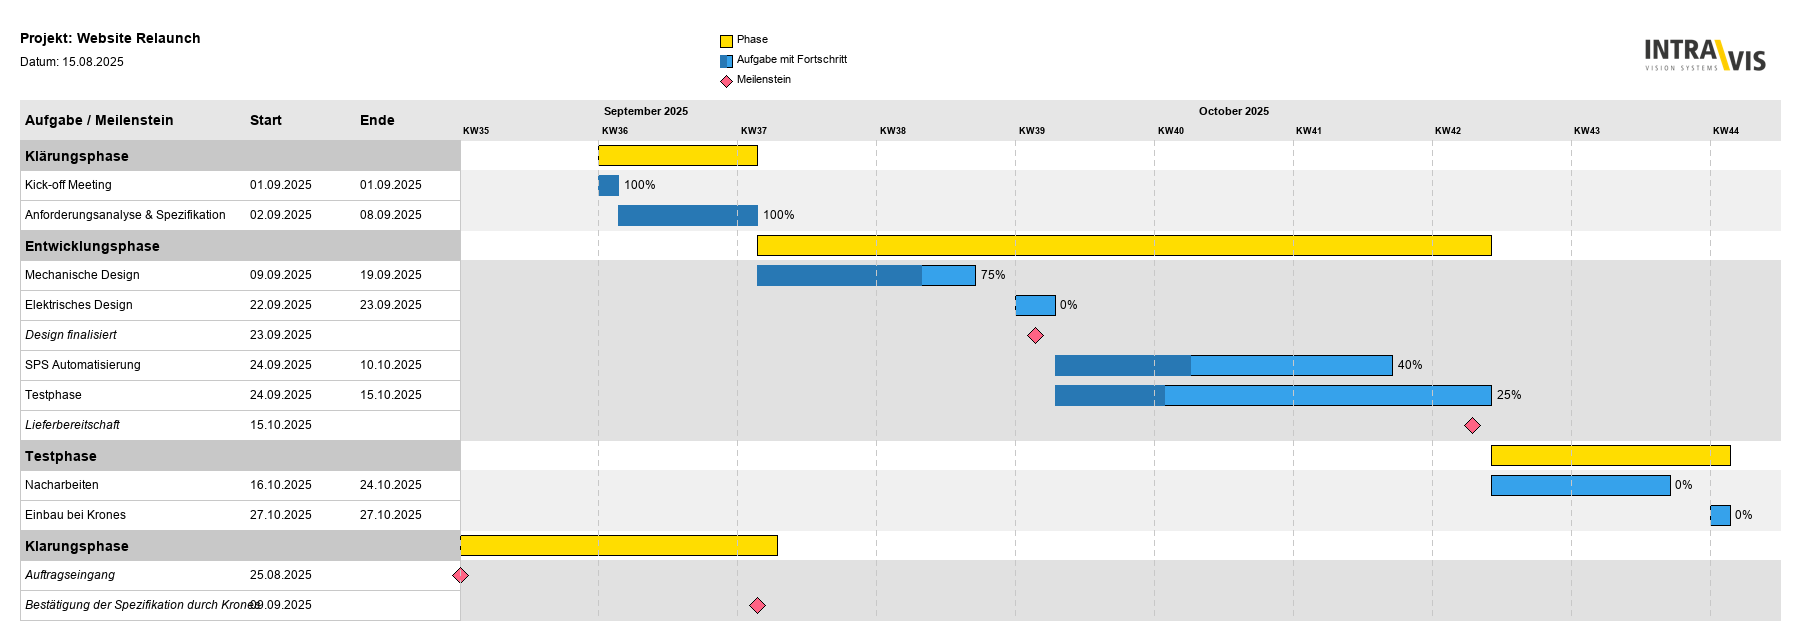
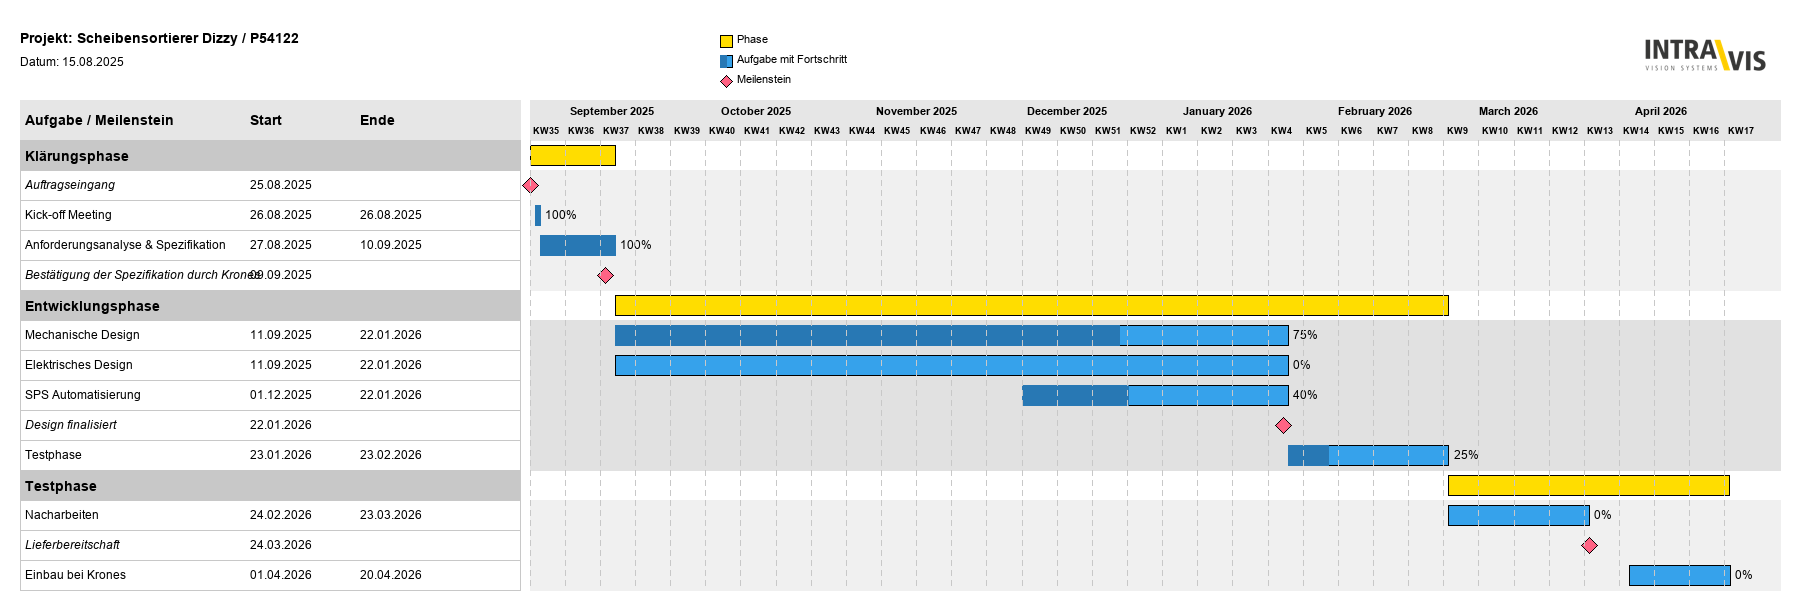
Minor changes

diff --git a/Gantt.py b/Gantt.py
@@ -65,27 +65,27 @@ HEADER_AREA_HEIGHT = 80 # NEU: Platz für den oberen Header
 TABLE_WIDTH = 440
 HEADER_HEIGHT = 40
 ROW_HEIGHT = 30
-SPACE_BETWEEN = 0
+SPACE_BETWEEN = 10
 MILESTONE_SIZE = 8
 TEXT_AREA_WIDTH = 50
 
 # --- 1. Daten definieren ---
 tasks_data = [
-    {'name': 'Kick-off Meeting', 'category': 'Klärungsphase', 'start': datetime.date(2025, 9, 1), 'end': datetime.date(2025, 9, 1), 'completion': 100},
-    {'name': 'Anforderungsanalyse & Spezifikation', 'category': 'Klärungsphase', 'start': datetime.date(2025, 9, 2), 'end': datetime.date(2025, 9, 8), 'completion': 100},
-    {'name': 'Mechanische Design', 'category': 'Entwicklungsphase', 'start': datetime.date(2025, 9, 9), 'end': datetime.date(2025, 9, 19), 'completion': 75},
-    {'name': 'Elektrisches Design', 'category': 'Entwicklungsphase', 'start': datetime.date(2025, 9, 22), 'end': datetime.date(2025, 9, 23), 'completion': 0},
-    {'name': 'SPS Automatisierung', 'category': 'Entwicklungsphase', 'start': datetime.date(2025, 9, 24), 'end': datetime.date(2025, 10, 10), 'completion': 40},
-    {'name': 'Testphase', 'category': 'Entwicklungsphase', 'start': datetime.date(2025, 9, 24), 'end': datetime.date(2025, 10, 15), 'completion': 25},
-    {'name': 'Nacharbeiten', 'category': 'Testphase', 'start': datetime.date(2025, 10, 16), 'end': datetime.date(2025, 10, 24), 'completion': 0},
-    {'name': 'Einbau bei Krones', 'category': 'Testphase', 'start': datetime.date(2025, 10, 27), 'end': datetime.date(2025, 10, 27), 'completion': 0}
+    {'name': 'Kick-off Meeting', 'category': 'Klärungsphase', 'start': datetime.date(2025, 8, 26), 'end': datetime.date(2025, 8, 26), 'completion': 100},
+    {'name': 'Anforderungsanalyse & Spezifikation', 'category': 'Klärungsphase', 'start': datetime.date(2025, 8, 27), 'end': datetime.date(2025, 9, 10), 'completion': 100},
+    {'name': 'Mechanische Design', 'category': 'Entwicklungsphase', 'start': datetime.date(2025, 9, 11), 'end': datetime.date(2026, 1, 22), 'completion': 75},
+    {'name': 'Elektrisches Design', 'category': 'Entwicklungsphase', 'start': datetime.date(2025, 9, 11), 'end': datetime.date(2026, 1, 22), 'completion': 0},
+    {'name': 'SPS Automatisierung', 'category': 'Entwicklungsphase', 'start': datetime.date(2025, 12, 1), 'end': datetime.date(2026, 1, 22), 'completion': 40},
+    {'name': 'Testphase', 'category': 'Entwicklungsphase', 'start': datetime.date(2026, 1, 23), 'end': datetime.date(2026, 2, 23), 'completion': 25},
+    {'name': 'Nacharbeiten', 'category': 'Testphase', 'start': datetime.date(2026, 2, 24), 'end': datetime.date(2026, 3, 23), 'completion': 0},
+    {'name': 'Einbau bei Krones', 'category': 'Testphase', 'start': datetime.date(2026, 4, 1), 'end': datetime.date(2026, 4, 20), 'completion': 0}
 ]
 
 milestones_data = [
     {'name': 'Auftragseingang', 'category': 'Klärungsphase', 'date': datetime.date(2025, 8, 25)},
     {'name': 'Bestätigung der Spezifikation durch Krones', 'category': 'Klärungsphase', 'date': datetime.date(2025, 9, 9)},
-    {'name': 'Design finalisiert', 'category': 'Entwicklungsphase', 'date': datetime.date(2025, 9, 23)},
-    {'name': 'Lieferbereitschaft', 'category': 'Entwicklungsphase', 'date': datetime.date(2025, 10, 15)}
+    {'name': 'Design finalisiert', 'category': 'Entwicklungsphase', 'date': datetime.date(2026, 1, 22)},
+    {'name': 'Lieferbereitschaft', 'category': 'Testphase', 'date': datetime.date(2026, 3, 24)}
 ]
 
 # Daten für die Verarbeitung vorbereiten und gruppieren
@@ -134,7 +134,7 @@ draw = ImageDraw.Draw(image)
 header_y = PADDING
 
 # Oben Links: Projektinfo
-draw.text((PADDING, header_y + 10), "Projekt: Website Relaunch", font=FONT_BOLD, fill=COLOR_BLACK)
+draw.text((PADDING, header_y + 10), "Projekt: Scheibensortierer Dizzy / P54122", font=FONT_BOLD, fill=COLOR_BLACK)
 draw.text((PADDING, header_y + 35), f"Datum: {datetime.date.today().strftime('%d.%m.%Y')}", font=FONT_REGULAR, fill=COLOR_BLACK)
 
 # Oben Rechts: Logo
